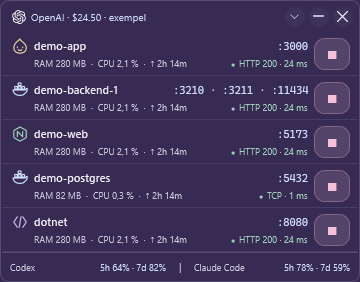
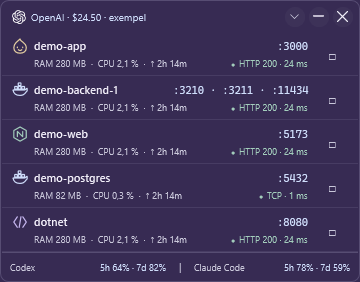
Fix Claude quota dialog parsing and Windows 11 blur; soften stop controls

Changed region(s): [[0.8556, 0.5957, 0.9778, 0.8794], [0.8556, 0.2837, 0.9778, 0.5674], [0.8556, 0.1135, 0.9778, 0.2553]]

diff --git a/src/PortPilot.App/ClaudeUsageReader.js b/src/PortPilot.App/ClaudeUsageReader.js
@@ -5,6 +5,7 @@
   const session = new Set(["current session", "aktuell session", "nuvarande session"]);
   const weekly = new Set(["all models", "alla modeller"]);
   const weeklyFallback = new Set(["weekly limits", "veckogränser"]);
+  const otherBudgets = new Set(["fable", "sonnet only", "opus only", "haiku only", "extra usage", "usage credits", "cloud session credits", "included credit", "limit resets"]);
   const isLabel = text => session.has(text) || weekly.has(text) || weeklyFallback.has(text);
   function isUsage(url) {
     try { const u = new URL(url); return u.protocol === "https:" && u.hostname === "claude.ai" && (!u.port || u.port === "443") && u.pathname.replace(/\/$/, "") === "/settings/usage"; }
@@ -12,24 +13,37 @@
   }
   function read(document, url) {
     if (!isUsage(url)) {
-      const u = new URL(url);
-      return { state: u.pathname.includes("login") || u.hostname !== "claude.ai" ? "login_required" : "paused" };
+      try { const u = new URL(url); return { state: u.pathname.includes("login") || u.hostname !== "claude.ai" ? "login_required" : "paused" }; }
+      catch { return { state: "unreadable" }; }
     }
     const visible = e => e.getClientRects().length > 0 && document.defaultView.getComputedStyle(e).visibility !== "hidden";
-    const labels = [...document.querySelectorAll("h1,h2,h3,h4,p,span,div,label")]
-      .filter(e => visible(e) && isLabel(clean(e.textContent)));
+    // Usage is now a settings dialog. Keep the quota reader out of the chat sidebar.
+    const dialogs = [...document.querySelectorAll('[role="dialog"]')].filter(visible);
+    const root = dialogs.find(e => /plan usage limits|current session|all models|aktuell session|alla modeller/.test(clean(e.innerText))) ?? document;
+    const elements = [...root.querySelectorAll("h1,h2,h3,h4,h5,h6,p,span,div,label,strong,dt")].filter(visible);
+    const labelled = elements.filter(e => isLabel(clean(e.textContent)));
+    const labels = labelled.filter(e => !labelled.some(other => other !== e && e.contains(other) && clean(other.textContent) === clean(e.textContent)));
+    const boundaries = elements.filter(e => isLabel(clean(e.textContent)) || otherBudgets.has(clean(e.textContent)));
     function card(label) {
-      for (let e = label.parentElement, depth = 0; e && depth < 5; e = e.parentElement, depth++) {
+      for (let e = label.parentElement, depth = 0; e && depth < 10; e = e.parentElement, depth++) {
         const text = clean(e.innerText);
-        if (text.length > 1200 || labels.some(other => other !== label && e.contains(other) && clean(other.textContent) !== clean(label.textContent))) break;
+        const ownName = clean(label.textContent);
+        if (text.length > 1800 || boundaries.some(other => e.contains(other) && clean(other.textContent) !== ownName
+          && !(weekly.has(ownName) && weeklyFallback.has(clean(other.textContent))))) break;
         const values = new Set();
-        for (const match of text.matchAll(/(\d+(?:[.,]\d+)?)\s*%\s*(?:used|använt|använd|utnyttjat)\b/g)) values.add(Number(match[1].replace(",", ".")));
-        // Accessible progressbar fallback requires an explicit 0..100 scale.
-        for (const bar of e.querySelectorAll('[role="progressbar"]')) {
+        const percent = "(?<![\\d.,+-])([+-]?\\d+(?:[.,]\\d+)?)\\s*%";
+        const used = "(?:used|använt|använd|utnyttjat)";
+        const remaining = "(?:remaining|left|kvar|återstår)";
+        for (const pattern of [new RegExp(percent + "\\s*" + used + "\\b", "g"), new RegExp("\\b" + used + "\\s*" + percent, "g")])
+          for (const match of text.matchAll(pattern)) values.add(Number(match[1].replace(",", ".")));
+        for (const match of text.matchAll(new RegExp(percent + "\\s*" + remaining + "\\b", "g"))) values.add(100 - Number(match[1].replace(",", ".")));
+        // Native <progress> and accessible meters can expose a 0..1 or 0..100 scale.
+        for (const bar of e.querySelectorAll('[role="progressbar"],progress')) {
           if (!visible(bar)) continue;
-          const min = Number(bar.getAttribute("aria-valuemin") ?? 0), max = Number(bar.getAttribute("aria-valuemax") ?? 100);
-          const raw = bar.getAttribute("aria-valuenow");
-          if (raw !== null && min === 0 && max === 100 && raw.trim()) values.add(Number(raw));
+          const native = bar.tagName === "PROGRESS";
+          const min = Number(bar.getAttribute("aria-valuemin") ?? 0), max = Number(bar.getAttribute(native ? "max" : "aria-valuemax") ?? (native ? 1 : 100));
+          const raw = bar.getAttribute(native ? "value" : "aria-valuenow");
+          if (raw !== null && raw.trim() && min === 0 && (max === 1 || max === 100)) values.add(Number((Number(raw) * 100 / max).toFixed(6)));
         }
         if (values.size > 1) return null;
         if (values.size === 1) {

diff --git a/src/PortPilot.App/MainWindow.xaml b/src/PortPilot.App/MainWindow.xaml
@@ -26,7 +26,18 @@
     </DataTemplate>
     <Style x:Key="DenseStopButton" TargetType="Button" BasedOn="{StaticResource StopButton}">
       <Setter Property="Width" Value="36" /><Setter Property="Height" Value="32" /><Setter Property="Padding" Value="10,6" />
-      <Setter Property="FontSize" Value="12" /><Setter Property="Background" Value="#28F3C2D7" /><Setter Property="BorderBrush" Value="#65F3C2D7" />
+      <Setter Property="FontSize" Value="14" /><Setter Property="Foreground" Value="{StaticResource MutedBrush}" /><Setter Property="Background" Value="Transparent" /><Setter Property="BorderBrush" Value="Transparent" />
+      <Setter Property="Template"><Setter.Value><ControlTemplate TargetType="Button">
+        <Border x:Name="StopSurface" Background="{TemplateBinding Background}" BorderBrush="{TemplateBinding BorderBrush}" BorderThickness="1" CornerRadius="7" Padding="{TemplateBinding Padding}">
+          <ContentPresenter HorizontalAlignment="Center" VerticalAlignment="Center" />
+        </Border>
+        <ControlTemplate.Triggers>
+          <Trigger Property="IsMouseOver" Value="True"><Setter TargetName="StopSurface" Property="Background" Value="#18F3C2D7" /><Setter Property="Foreground" Value="{StaticResource RoseBrush}" /></Trigger>
+          <Trigger Property="IsKeyboardFocused" Value="True"><Setter TargetName="StopSurface" Property="BorderBrush" Value="{StaticResource AccentBrush}" /></Trigger>
+          <Trigger Property="IsPressed" Value="True"><Setter TargetName="StopSurface" Property="Background" Value="#30F3C2D7" /></Trigger>
+          <Trigger Property="IsEnabled" Value="False"><Setter Property="Opacity" Value="0.35" /></Trigger>
+        </ControlTemplate.Triggers>
+      </ControlTemplate></Setter.Value></Setter>
     </Style>
     <Style x:Key="UsageButton" TargetType="Button" BasedOn="{StaticResource QuietButton}">
       <Setter Property="Template"><Setter.Value><ControlTemplate TargetType="Button">
@@ -151,7 +162,7 @@
                     <Grid>
                       <Grid.ColumnDefinitions><ColumnDefinition /><ColumnDefinition Width="46" /></Grid.ColumnDefinitions>
                       <ContentControl Content="{Binding}" ContentTemplate="{StaticResource PortRowTemplate}" VerticalAlignment="Center" />
-                      <Button x:Name="DenseStop" Grid.Column="1" Content="■" IsEnabled="{Binding CanStop}" Click="StopPort_Click" Style="{StaticResource DenseStopButton}" Margin="6,0,4,0" ToolTip="Stoppa hela processen eller containern, inklusive alla dess portar" AutomationProperties.Name="{Binding Name, StringFormat=Stoppa {0}}" />
+                      <Button x:Name="DenseStop" Grid.Column="1" Content="□" IsEnabled="{Binding CanStop}" Click="StopPort_Click" Style="{StaticResource DenseStopButton}" Margin="6,0,4,0" ToolTip="Stoppa hela processen eller containern, inklusive alla dess portar" AutomationProperties.Name="{Binding Name, StringFormat=Stoppa {0}}" />
                     </Grid>
                   </Border>
                 </DataTemplate>

diff --git a/src/PortPilot.App/WindowMaterial.cs b/src/PortPilot.App/WindowMaterial.cs
@@ -73,16 +73,18 @@ public sealed class WindowMaterial
         SetAccent(handle, 0);
         if (eligible)
         {
-            if (appearance.Mode == BackgroundMode.Acrylic && OperatingSystem.IsWindowsVersionAtLeast(10, 0, 22621))
+            if (appearance.Mode is BackgroundMode.Blur or BackgroundMode.Acrylic && OperatingSystem.IsWindowsVersionAtLeast(10, 0, 22621))
             {
-                int acrylic = 3; // DWMSBT_TRANSIENTWINDOW: retain the proven caption fix.
+                // The classic accent blur reports success without blurring on newer Windows 11.
+                // Use the supported DWM frosted backdrop for both glass modes, retaining the caption fix.
+                int acrylic = 3; // DWMSBT_TRANSIENTWINDOW
                 IsAcrylic = IsTransparent = DwmSetWindowAttribute(handle, 38, ref acrylic, sizeof(int)) >= 0;
             }
             else if (appearance.Mode is BackgroundMode.Clear or BackgroundMode.Blur or BackgroundMode.Acrylic)
             {
                 int state = appearance.Mode == BackgroundMode.Clear ? 2 : appearance.Mode == BackgroundMode.Blur ? 3 : 4;
                 // Tint is applied once, in the WPF surface layer.
-                IsTransparent = SetAccent(handle, state, appearance.Mode == BackgroundMode.Acrylic ? 0x01000000u : 0u);
+                IsTransparent = SetAccent(handle, state, state == 4 ? 0x01000000u : 0u);
                 IsAcrylic = IsTransparent && appearance.Mode == BackgroundMode.Acrylic;
             }
         }
@@ -136,6 +138,29 @@ public sealed class WindowMaterial
         var frameHr = DwmGetWindowAttribute(handle, 1, out int frameEnabled, sizeof(int));
         var frame = framePolicyResult is { } result ? $"Custom frame policy HRESULT: 0x{result:X8}" : "Standard system caption";
         return $"{Status}\nWindows: {Environment.OSVersion.Version}\nBackdrop readback: {value} (HRESULT 0x{hr:X8})\n{frame}\nNative frame enabled: {frameEnabled != 0} (HRESULT 0x{frameHr:X8})\nWindow active: {window.IsActive}\nWindow state: {window.WindowState}\nWindow opacity: {window.Opacity}\nHigh contrast: {SystemParameters.HighContrast}\nTransparency preference: {TransparencyEnabled()}";
+    }
+
+    public void VerifyModernBlur(Action<bool, string> check)
+    {
+        if (!OperatingSystem.IsWindowsVersionAtLeast(10, 0, 22621) || SystemParameters.HighContrast || !TransparencyEnabled()) return;
+        var enabled = Enabled; var appearance = Appearance;
+        try
+        {
+            Enabled = true; Appearance = appearance with { Mode = BackgroundMode.Blur }; Apply();
+            if (!IsTransparent)
+            {
+                check(!IsAcrylic && source?.CompositionTarget?.BackgroundColor.A == 255, "Unavailable native blur keeps an opaque fallback instead of pretending to be transparent");
+                return;
+            }
+            var hr = DwmGetWindowAttribute(source!.Handle, 38, out int backdrop, sizeof(int));
+            check(hr >= 0 && backdrop == 3 && IsTransparent && IsAcrylic, "Windows 11 Blur activates the DWM frosted backdrop instead of the ineffective classic accent blur");
+            var frameHr = DwmGetWindowAttribute(source.Handle, 1, out int nativeFrame, sizeof(int));
+            check(framePolicyResult == 0 && frameHr >= 0 && nativeFrame == 0, "Blur keeps the custom non-client policy that prevents the active caption stripe");
+            Appearance = appearance with { Mode = BackgroundMode.Clear }; Apply();
+            hr = DwmGetWindowAttribute(source.Handle, 38, out backdrop, sizeof(int));
+            check(hr >= 0 && backdrop == 1 && !IsAcrylic, "Switching from Blur to Clear removes the DWM blur backend");
+        }
+        finally { Enabled = enabled; Appearance = appearance; Apply(); }
     }
 
     private void ParametersChanged(object? sender, PropertyChangedEventArgs e)

diff --git a/src/PortPilot.App/ClaudeUsageBrowser.cs b/src/PortPilot.App/ClaudeUsageBrowser.cs
@@ -238,6 +238,18 @@ internal sealed class ClaudeUsageBrowser : IDisposable
         {
             await Load(Card("Current session", "37% used") + "<h2>Weekly limits</h2>" + Card("All models", "62% used") + Card("Sonnet only", "99% used") + Card("Usage credits", "100% used · $50"));
             Check(values.Last().Snapshot!.Windows is [{ Remaining: 63, DurationMinutes: 300 }, { Remaining: 38, DurationMinutes: 10080 }], "Visible session and all-model quotas exclude model-only and paid-credit cards");
+            await Load("<aside>" + Card("Current session", "99% used") + "</aside><div role='dialog'><h2>Plan usage limits</h2>"
+                + ModernRow("Current session", "0% used", "Starts when a message is sent") + "<h2>Weekly limits</h2>"
+                + ModernRow("All models", "13% used", "Resets Fri 2:00 PM") + ModernRow("Fable", "16% used", "Resets Fri 2:00 PM")
+                + "<h3>Cloud session credits</h3>" + ModernRow("Included credit", "$250 of $250 left", "Expires later") + "</div>");
+            Check(values.Last().Snapshot!.Windows is [{ Remaining: 100, DurationMinutes: 300 }, { Remaining: 87, DurationMinutes: 10080 }], "Current settings dialog reads deeply nested h5 quota rows and excludes Fable, sidebar and cloud credits");
+            await Load(Card("Current session", "Used 29%") + Card("All models", "87% remaining"));
+            Check(values.Last().Snapshot!.Windows is [{ Remaining: 71 }, { Remaining: 87 }], "Usage prefix and explicit remaining percentages keep their correct meaning");
+            await Load(Card("Current session", "<progress max='1' value='0.29'></progress>"));
+            Check(values.Last().Snapshot!.Windows.Single().Remaining == 71, "Native fractional progress is read as a quota percentage");
+            await Load(Card("Current session", "-5% used")); Check(values.Last().State == "unreadable", "Negative quota percentages are rejected rather than being read as positive");
+            await Load(Card("Current session", "20% used") + Card("Current session", "40% used"));
+            Check(values.Last().State == "unreadable", "Conflicting visible session rows cannot become a guessed quota");
             var count = values.Count; await browser.ObserveAsync(); Check(values.Count == count, "Unchanged polling cannot renew a stale observation");
             await Load(Card("Current session", "0% used")); Check(values.Last().Snapshot!.Windows.Single().Remaining == 100, "A genuinely reported zero usage is preserved");
             await Load(Card("Current session", "")); Check(values.Last().State == "unreadable", "Missing percentage never becomes zero usage");
@@ -268,6 +280,7 @@ internal sealed class ClaudeUsageBrowser : IDisposable
             await browser.ObserveAsync();
         }
         static string Card(string name, string value) => $"<section><h3>{name}</h3><p>{value}</p></section>";
+        static string ModernRow(string name, string value, string reset) => $"<div class='quota-row'><div><div><div><div><div><div><h5>{name}</h5></div></div></div></div></div><p>{reset}</p></div><div class='meter'></div><p>{value}</p></div>";
         void Check(bool condition, string name) { if (!condition) throw new InvalidOperationException(name); checks.Add("PASS " + name); }
     }
     [StructLayout(LayoutKind.Sequential)] private struct Rect { public int Left, Top, Right, Bottom; }

diff --git a/src/PortPilot.App/MainWindow.xaml.cs b/src/PortPilot.App/MainWindow.xaml.cs
@@ -602,6 +602,7 @@ public partial class MainWindow : Window, INotifyPropertyChanged
         Check(launchesOpened && LaunchSection.Visibility == Visibility.Collapsed && DensePorts.IsVisible && ReferenceEquals(LaunchSection.DataContext, this),
             "Quick starts open in an owned dialog, keep their bindings and restore the compact window on close");
         VerifyProjectRows(Check);
+        material.VerifyModernBlur(Check);
         VerifyAssistantUsage(Check);
         await VerifyAppearanceAsync(Check);
         return string.Join(Environment.NewLine, checks);

diff --git a/README.md b/README.md
@@ -2,7 +2,7 @@
 
 <img src="assets/devgeek.png" width="88" alt="DevGeek icon">
 
-En liten Windows-app för lokala utvecklingsportar och snabbstarter. Byggd i C# / .NET 10 med WPF. Svenskt, minimalistiskt gränssnitt med frostat glas, dämpade plommonfärger, ljusblå accenter och mjukt rosa stoppknappar. Port- och processlogiken har inga externa bibliotek; appens Billing-session använder Microsofts officiella WebView2-SDK.
+En liten Windows-app för lokala utvecklingsportar och snabbstarter. Byggd i C# / .NET 10 med WPF. Svenskt, minimalistiskt gränssnitt med frostat glas, dämpade plommonfärger, ljusblå accenter och diskreta stoppknappar med kontursymbol. Port- och processlogiken har inga externa bibliotek; appens Billing-session använder Microsofts officiella WebView2-SDK.
 
 ## Starta
 
@@ -10,7 +10,7 @@ Kör `build.ps1` och dubbelklicka på **app/DevGeek.exe**. Den färdigbyggda Win
 
 1. Portlistan uppdateras automatiskt varannan sekund. **Bara utveckling** visar välkända runtime-processer som Node, Bun, Deno, Python och .NET samt Docker-portar. Avmarkera för att se alla lokala lyssnande TCP-portar.
 2. Varje **process eller container visas som en grupp** med sina unika portar på samma rad. IPv4- och IPv6-bindningar för samma port visas en gång i sammanfattningen. Dubbelklick på en Node/Bun/Deno-tjänst som svarar över HTTP öppnar webbporten i standardwebbläsaren. Övriga tjänster öppnar en terminal i projektmappen. Håll musen över raden för detaljer.
-3. Gruppens rosa **stoppknapp** visar vilken process eller container och vilka portar som berörs innan stoppet utförs.
+3. Gruppens **stoppknapp** visar vilken process eller container och vilka portar som berörs innan stoppet utförs.
 4. Öppna **⌄ → Snabbstarter…** för att starta och hantera sparade kommandon i ett separat fönster. Lägg till en egen projektmapp och ett kommando, exempelvis `bun run dev`. Nya installationer börjar med en tom snabbstartslista.
 5. **Lägg till** och **Redigera** hanterar namn, arbetsmapp och kommando. Kommandon körs i bakgrunden via `cmd.exe /d /s /c`; exempelvis `bun run dev`, `npm run dev`, `dotnet watch` eller `docker compose up -d`.
 6. **Logg** visar kommandots utdata. Appen har endast den kompakta portöversikten, även när äldre inställningar anger standardläge. Den är 360 px bred, med minst tre grupprader och 10 px indrag till vänster. Höjden följer listan upp till 342 px, sedan scrollas portarna. Namn och portar delar rad; status, RAM, CPU och körtid visas under. Överraden har klickbart OpenAI-saldo, dragyta, **⌄**, minimera och stäng. Menyn innehåller uppdatering, utvecklingsfilter, fäst överst, snabbstarter och bakgrundsval. Codex/Claude ligger kvar i botten medan portarna scrollas.
@@ -67,7 +67,7 @@ Kvoterna är separata från **OpenAI API-saldot i USD**. Båda visas samtidigt. 
 
 Saldot visas i överraden. **Både OpenAI-loggan och beloppet är klickbara** och öppnar saldokopplingen. Den tomma ytan bredvid fungerar som dragyta. Den vanliga appen läser det sparade saldot från din egen Billing-session; saknade värden visas som väntande. Designförhandsvisningar märks uttryckligen **exempel** och läser inga konton. Saldoknappen öppnar då en informationsdialog med kontofunktionerna avstängda.
 
-Kompaktlägets stoppknappar har en tydlig rosa yta och kant, en klickyta på 36 × 32 px och extra inre padding. De stoppar fortfarande hela processgruppen efter samma bekräftelse som tidigare.
+Kompaktlägets stoppknappar har en diskret kontursymbol utan färgad platta i viloläget. Rosa markering visas när musen hålls över knappen och tangentbordsfokus har en tydlig kant. Klickytan på 36 × 32 px och extra inre padding behålls. Knappen stoppar hela processgruppen efter bekräftelse.
 
 ### Egen session i bakgrunden
 
@@ -92,6 +92,8 @@ Bakgrundsläsning, dold omhämtning och återställning efter fullständigt avsl
 Öppna **⌄** i överraden för verktyg och inställningar. Samma meny finns via högerklick på en tom yta eller kompaktlägets dragyta. **Bara utveckling** och **Fäst överst** visar sina aktuella lägen med bockar.
 
 Under **BAKGRUND** finns fem lägen: **Normal** använder DevGeeks standardbakgrund, **Opaque** är helt solid i vald färg, **Clear** är genomskinlig utan blur, **Blur** suddar bakomliggande innehåll och **Acrylic** använder Windows glasmaterial. Text och knappar behåller full opacitet. **Visa fönsterram** styr den tunna kanten.
+
+På Windows 11 22H2 och senare använder Blur samma fungerande DWM-backend för frostat glas som Acrylic. Den klassiska accent-blur-effekten används på äldre Windows-versioner. Den har begränsat stöd i nyare Windows 11, vilket även [TranslucentTB beskriver](https://github.com/TranslucentTB/TranslucentTB#features). DWM-materialet är [Desktop Acrylic](https://learn.microsoft.com/en-us/windows/win32/api/dwmapi/ne-dwmapi-dwm_systembackdrop_type). Byten till Clear eller Opaque rensar den tidigare suddeffekten.
 
 **Färg och transparens…** har färgprover, hexkod, RGB-reglage och transparens för färgtonen. Ändringar förhandsvisas direkt. **Spara** behåller dem efter omstart; **Avbryt** återställer utseendet innan dialogen öppnades. Transparensreglaget gäller Clear, Blur och Acrylic. **Återställ utseende** återgår till Acrylic med den ursprungliga plommonfärgen.
 
@@ -156,6 +158,7 @@ Saldoläsarens fyra JavaScript-tester körs med Node: `node --test tests/OpenAiB
 - `src/PortPilot.App`: WPF-fönster, dialoger och loggvisning.
 - `tests/PortPilot.Tests`: körbara integrationstester utan externa testpaket.
 - `tests/OpenAiBalanceReader`: tester för appens inbäddade DOM-läsare.
+- `tests/ClaudeUsageReader`: tester för Claude-dialogens kvotfält, nästlade rubriker, procentformat och avgränsning från modellkvoter/krediter. Kör med `node --test tests/ClaudeUsageReader/reader.test.cjs`. Samma layoutfall verifieras också i riktig WebView2 med `--verify-claude-browser --test-root <egen testmapp> --report <rapportfil>`.
 
 Tekniska referenser: [Windows TCP-tabeller](https://learn.microsoft.com/en-us/windows/win32/api/iphlpapi/nf-iphlpapi-getextendedtcptable), [Windows Job Objects](https://learn.microsoft.com/en-us/windows/win32/procthread/job-objects), [Docker container ls](https://docs.docker.com/reference/cli/docker/container/ls/), [Docker inspect](https://docs.docker.com/reference/cli/docker/inspect/), [Docker restart](https://docs.docker.com/reference/cli/docker/container/restart/), [Windows Acrylic](https://learn.microsoft.com/en-us/windows/apps/design/style/acrylic), [DWM-systemmaterial](https://learn.microsoft.com/en-us/windows/win32/api/dwmapi/ne-dwmapi-dwm_systembackdrop_type).
 
